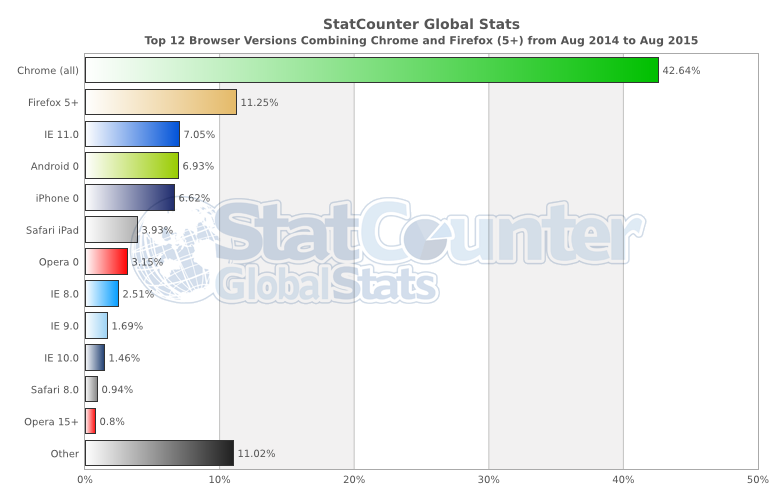
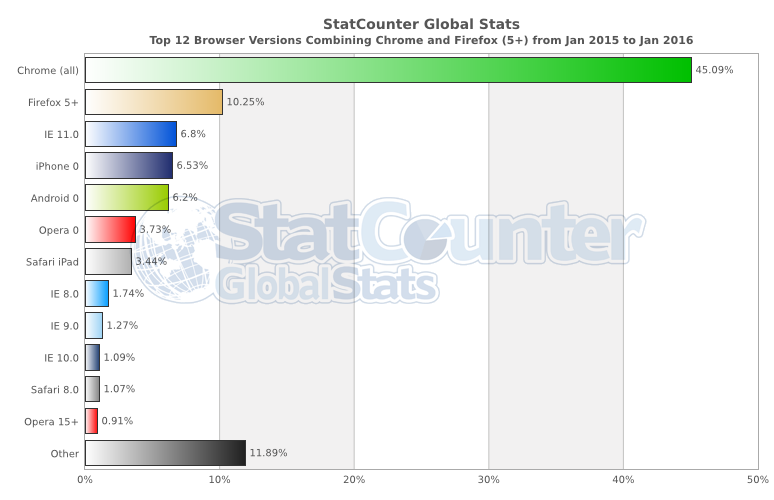
Updated browser stats
I thought it would be good to keep the StatCounter Global Stats as
current as possible, so I updated the image to show from 1/2015 -
1/2016. Readers will see a more current reflection of browser stats.
Updated the image link reference and citation.

diff --git a/learning/browsers.md b/learning/browsers.md
@@ -12,9 +12,9 @@
 3. [Internet Explorer](http://windows.microsoft.com/en-us/internet-explorer/download-ie) (engine: [Trident](https://en.wikipedia.org/wiki/Trident_%28layout_engine%29) + [Chakra](https://en.wikipedia.org/wiki/Chakra_%28JScript_engine%29))
 4. [Safari](https://www.apple.com/safari/) (engine: [Webkit](https://en.wikipedia.org/wiki/WebKit) + [SquirrelFish](https://trac.webkit.org/wiki/SquirrelFish))
 
-![](../images/statcounter.png "http://gs.statcounter.com/#all-browser_version_partially_combined-ww-monthly-201408-201508-bar")
+![](../images/statcounter.png "http://gs.statcounter.com/#all-browser_version_partially_combined-ww-monthly-201501-201601-bar")
 
-<cite>Image source: <a href="http://gs.statcounter.com/#all-browser_version_partially_combined-ww-monthly-201408-201508-bar">http://gs.statcounter.com/#all-browser_version_partially_combined-ww-monthly-201408-201508-bar</a></cite>
+<cite>Image source: <a href="http://gs.statcounter.com/#all-browser_version_partially_combined-ww-monthly-201408-201508-bar">http://gs.statcounter.com/#all-browser_version_partially_combined-ww-monthly-201501-201601-bar</a></cite>
 
 ##### Evolution of Browsers & Web Technologies (i.e., APIs)
 
